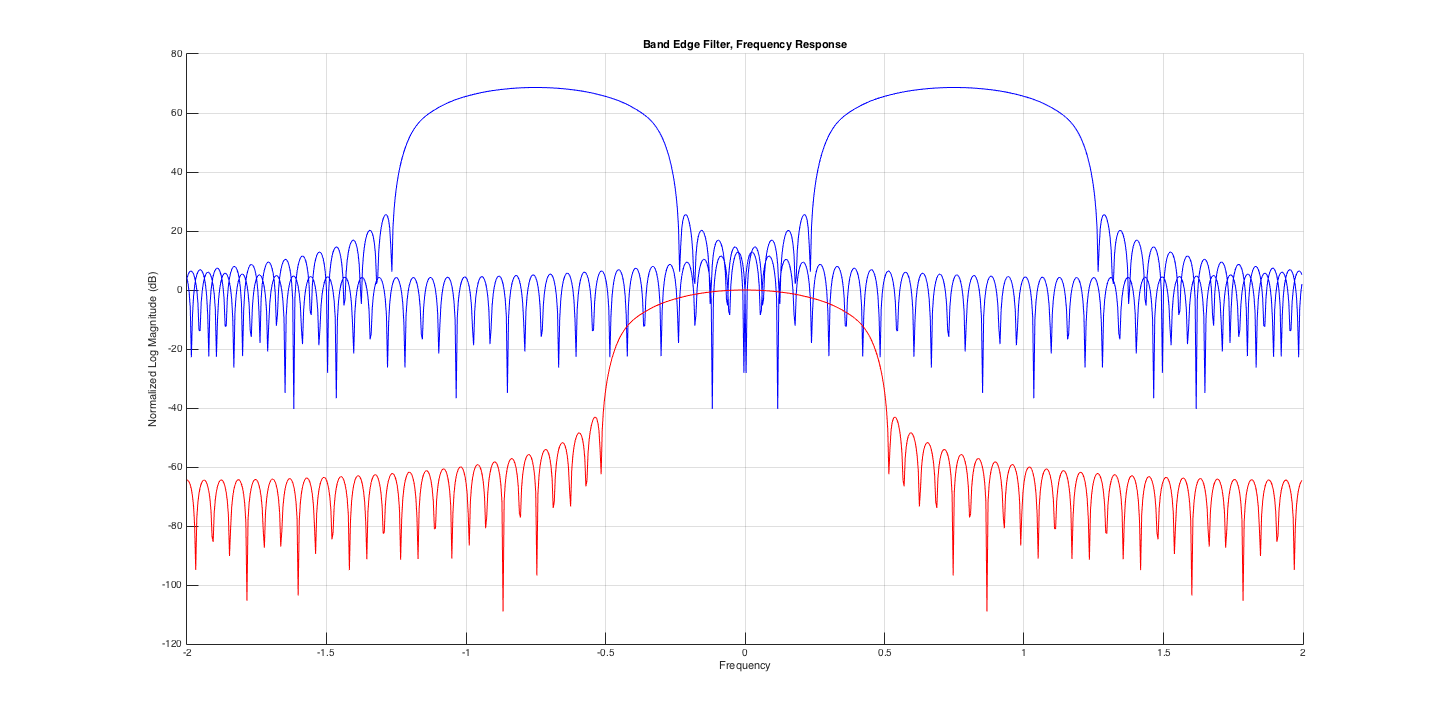
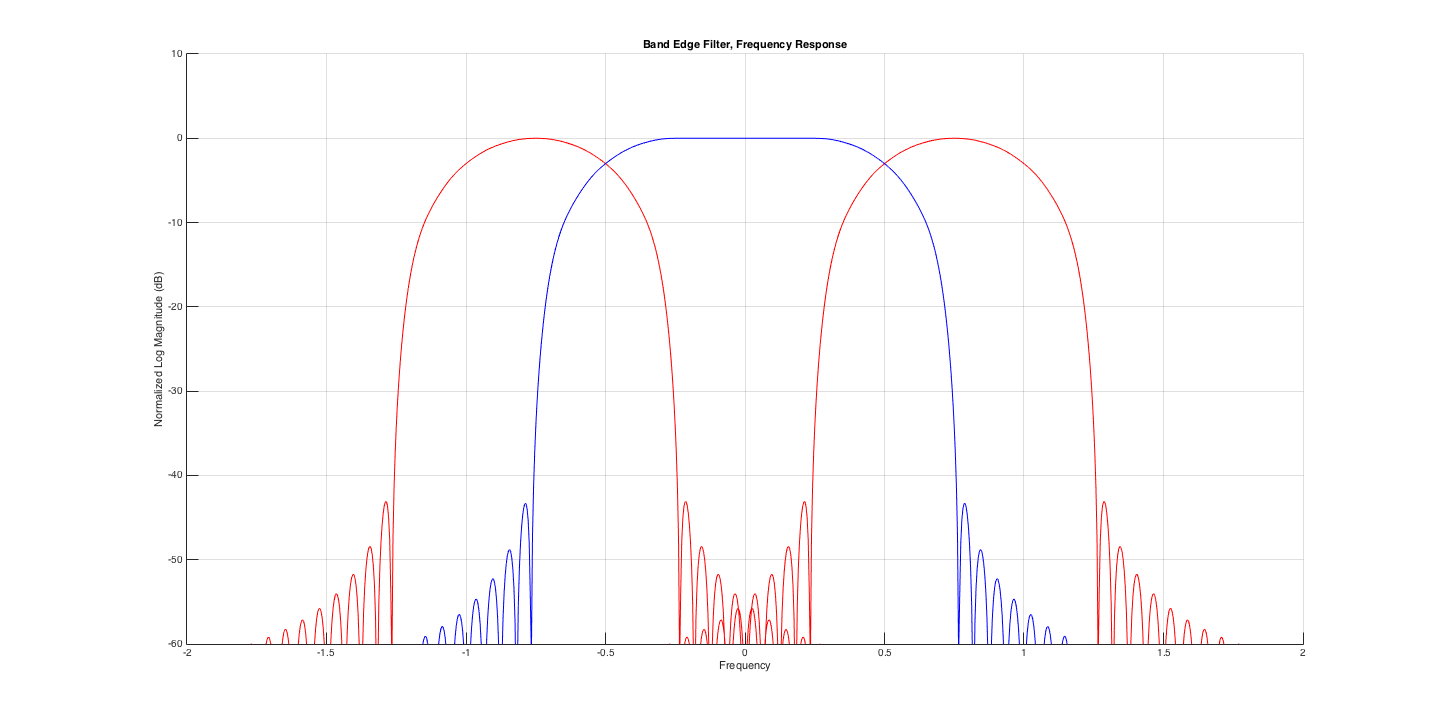
fix 2b

diff --git a/wes265_final_p2.m b/wes265_final_p2.m
@@ -61,18 +61,18 @@ ylabel('Normalized Log Magnitude (dB)');
 
 % 2b. Form the pair of band edge filters and show on a single page the impulse
 % response and frequency response of the filters.
-[right,base] = band_edge_harris(sps,alpha,delay);
-left = conj(right);
-left_frequency_response = fftshift(20*log10(abs(fft(left/sum(left),bins))));
-right_frequency_response = fftshift(20*log10(abs(fft(right/sum(right),bins))));
-base_frequency_response = fftshift(20*log10(abs(fft(base/sum(base),bins))));
+[left,right] = band_edge_harris(sps,alpha,delay);
+left_frequency_response = fftshift(20*log10(abs(fft(left,bins))));
+right_frequency_response = fftshift(20*log10(abs(fft(right,bins))));
+shape_frequency_response = fftshift(20*log10(abs(fft(shape/sum(shape),bins))));
 
 figure(2);
 hold on;
+plot((-0.5:1/bins:0.5-1/bins)*sps,left_frequency_response,'r');
+plot((-0.5:1/bins:0.5-1/bins)*sps,right_frequency_response,'r');
+plot((-0.5:1/bins:0.5-1/bins)*sps,shape_frequency_response,'b');
+axis([-2 2 -60 10]);
 grid on;
-plot((-0.5:1/bins:0.5-1/bins)*sps,left_frequency_response,'b');
-plot((-0.5:1/bins:0.5-1/bins)*sps,right_frequency_response,'b');
-plot((-0.5:1/bins:0.5-1/bins)*sps,base_frequency_response,'r');
 title(['Band Edge Filter, Frequency Response'])
 xlabel('Frequency');
 ylabel('Normalized Log Magnitude (dB)');

diff --git a/band_edge_harris.m b/band_edge_harris.m
@@ -1,4 +1,4 @@
-function [positive,base] = band_edge_harris(sps,alpha,delay)
+function [left,right] = band_edge_harris(sps,alpha,delay)
 
 % band_edge_harris(sps,alpha,delay), 
 % positive freq band edge filter
@@ -19,5 +19,6 @@ m=n/2;
 % now translate center to (1+alpha)*fs/2
 phi=(1+alpha)*(-m:0.5:m)/(2*sps);
 phi=phi(2:2:length(phi));
-positive=exp(j*2*pi*phi).*base;
+right=exp(j*2*pi*phi).*base;
+left=conj(right);
 end
